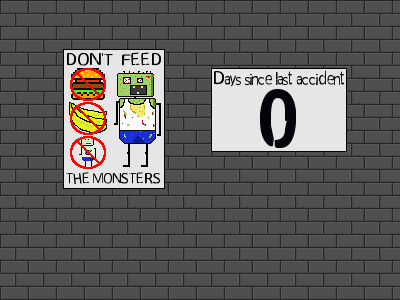
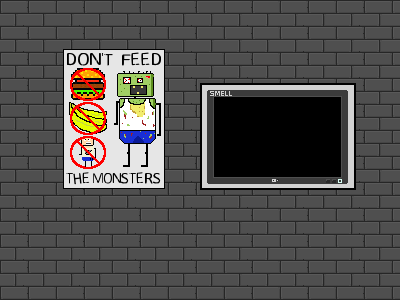
updated lab

Changed region(s): [[0.48, 0.21, 0.9, 0.66]]

diff --git a/lab.js b/lab.js
@@ -12,6 +12,7 @@ labScene.create = function() {
 	}
     var background = this.add.image(400, 300, 'labBackground');
     background.setScale(2);
+	this.add.image(550, 100, 'labSign');
     madScientistLabSprite = this.add.sprite(730, 504, 'madScientist');
     madScientistLabSprite.setScale(2);
     madScientistLabSprite.anims.play('msStand');
@@ -27,6 +28,8 @@ labScene.create = function() {
     victim.setFrame(0);
     var speechText = "Here we have our monster ready to test the new formula, and a volunteer to give it some encouragement. I'll just give it a zap.";
     this.time.delayedCall(750, function() { this.createBubble(635, 300, speechText); }, [], this);
+	this.add.text(440, 220, 'Top Speed (mph) :', { fontSize: '24px', fill: '#008106' }).setFontFamily('Verdana').setFontStyle('bold');
+	this.add.text(440, 295, 'Lifetime (seconds) :', { fontSize: '24px', fill: '#008106' }).setFontFamily('Verdana').setFontStyle('bold');
 };
 
 labScene.setResults = function() {
@@ -91,6 +94,7 @@ labScene.testAnimation = function() {
 		monster.anims.stop('monsterRun');
 		monster.visible = false;
 		monsterDeathSprite = this.add.sprite(monster.x, monster.y, 'zombieDeath');
+		monsterDeathSprite.setScale(2);
 		monsterDeathSprite.anims.play('death');
 		this.tweens.add({
 			targets: monsterDeathSprite,

diff --git a/preload.js b/preload.js
@@ -74,6 +74,7 @@ preloadScene.preload = function() {
     
     this.load.image('officeBackground', 'gameassets/images/officeBackground.png');
     this.load.image('labBackground', 'gameassets/images/labBackground.png');
+	this.load.image('labSign', 'gameassets/images/labSign.png');
     this.load.image('table', 'gameassets/images/table.png');
     this.load.image('buttonLong', 'gameassets/images/button200x66blue.png');
     this.load.image('buttonLarge', 'gameassets/images/pixelBlankButton240x80.png');
